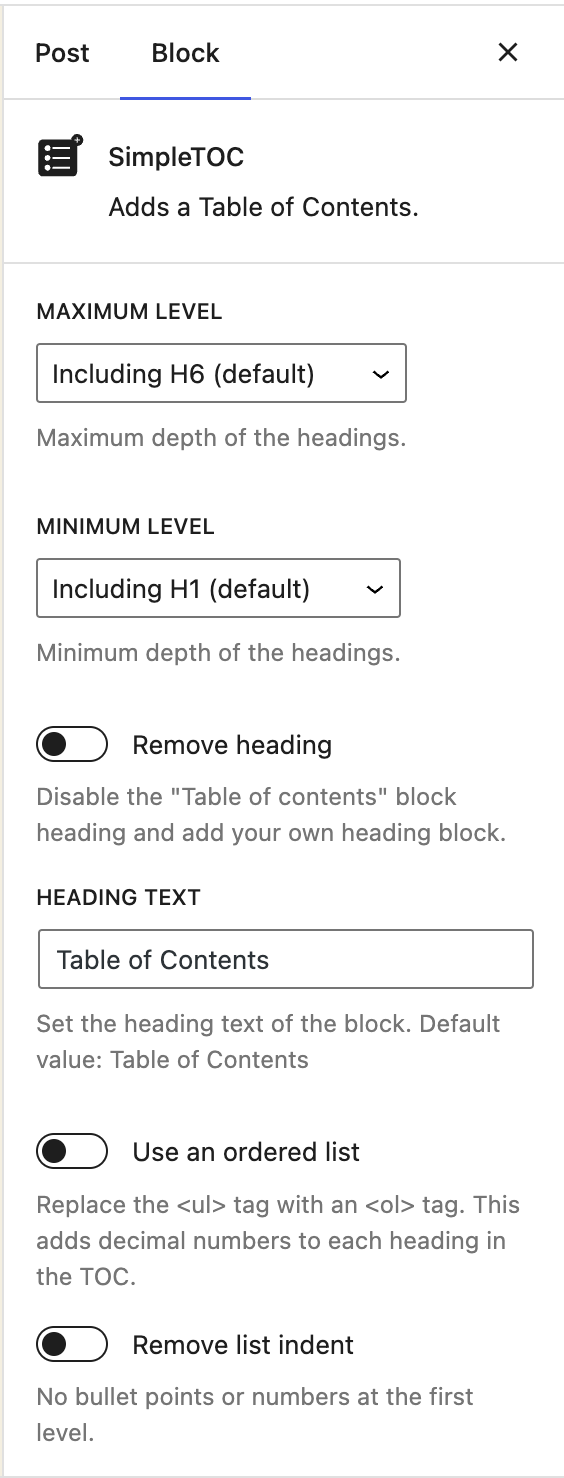
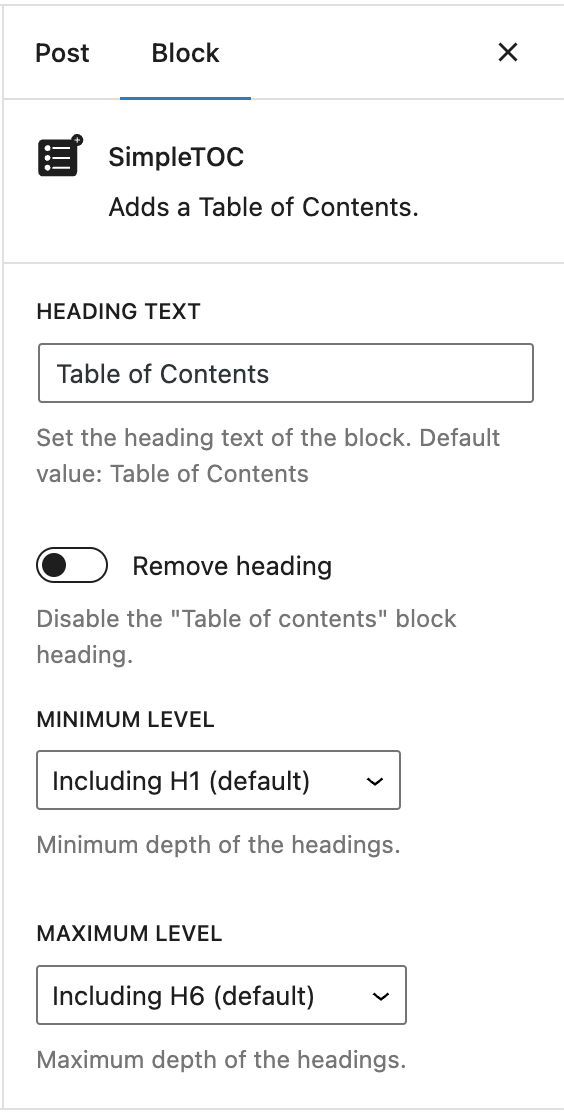
Added new indent buttons

diff --git a/build/index.js b/build/index.js
@@ -1,1 +1,1 @@
-!function(){"use strict";var e={n:function(t){var l=t&&t.__esModule?function(){return t.default}:function(){return t};return e.d(l,{a:l}),l},d:function(t,l){for(var o in l)e.o(l,o)&&!e.o(t,o)&&Object.defineProperty(t,o,{enumerable:!0,get:l[o]})},o:function(e,t){return Object.prototype.hasOwnProperty.call(e,t)}},t=window.wp.element,l=window.wp.blocks,o=JSON.parse('{"$schema":"https://json.schemastore.org/block.json","apiVersion":2,"name":"simpletoc/toc","version":"5.0.32","title":"SimpleTOC","category":"layout","keywords":["TOC","Table of Contents","SimpleTOC","Inhaltsverzeichnis","Index"],"supports":{"align":["wide","full"]},"icon":"simpletocicon","description":"Adds a Table of Contents.","attributes":{"no_title":{"type":"boolean","default":false},"title_text":{"type":"string"},"use_ol":{"type":"boolean","default":false},"remove_indent":{"type":"boolean","default":false},"add_smooth":{"type":"boolean","default":false},"use_absolute_urls":{"type":"boolean","default":false},"max_level":{"type":"integer","default":6},"min_level":{"type":"integer","default":1},"autorefresh":{"type":"boolean","default":true},"updated":{"type":"integer"}},"textdomain":"simpletoc","editorScript":"file:index.js","editorStyle":"file:editor.css"}'),n=window.wp.i18n,a=window.wp.blockEditor,i=window.wp.serverSideRender,s=e.n(i),r=window.wp.primitives,c=(0,t.createElement)(r.SVG,{xmlns:"http://www.w3.org/2000/svg",viewBox:"0 0 24 24"},(0,t.createElement)(r.Path,{d:"M11.1 15.8H20v-1.5h-8.9v1.5zm0-8.6v1.5H20V7.2h-8.9zM6 13c-1.1 0-2 .9-2 2s.9 2 2 2 2-.9 2-2-.9-2-2-2zm0-7c-1.1 0-2 .9-2 2s.9 2 2 2 2-.9 2-2-.9-2-2-2z"})),m=(0,t.createElement)(r.SVG,{xmlns:"http://www.w3.org/2000/svg",viewBox:"0 0 24 24"},(0,t.createElement)(r.Path,{d:"M11.1 15.8H20v-1.5h-8.9v1.5zm0-8.6v1.5H20V7.2h-8.9zM5 6.7V10h1V5.3L3.8 6l.4 1 .8-.3zm-.4 5.7c-.3.1-.5.2-.7.3l.1 1.1c.2-.2.5-.4.8-.5.3-.1.6 0 .7.1.2.3 0 .8-.2 1.1-.5.8-.9 1.6-1.4 2.5h2.7v-1h-1c.3-.6.8-1.4.9-2.1.1-.3 0-.8-.2-1.1-.5-.6-1.3-.5-1.7-.4z"})),u=window.wp.components,d=window.wp.data,_=window.React;const p=(0,t.createElement)("svg",{fillRule:"evenodd",strokeLinejoin:"round",strokeMiterlimit:"2",viewBox:"0 0 500 500",xmlns:"http://www.w3.org/2000/svg"},(0,t.createElement)("path",{d:"m365.983 78.248c2.72-32.415 29.921-57.908 63.029-57.908 34.91 0 63.253 28.342 63.253 63.252s-28.343 63.252-63.253 63.252v269.582c0 25.232-20.485 45.718-45.718 45.718h-313.62c-25.233 0-45.719-20.486-45.719-45.718v-292.46c0-25.233 20.486-45.718 45.719-45.718zm-245.943 324.857c-16.883 0-30.511-13.719-30.511-30.714 0-16.79 13.628-30.714 30.511-30.714 16.679 0 30.511 13.924 30.511 30.714 0 16.995-13.832 30.714-30.511 30.714zm50.851-40.952h183.063v20.476h-183.063zm-50.851-61.428c-16.883 0-30.511-13.719-30.511-30.714 0-16.79 13.628-30.714 30.511-30.714 16.679 0 30.511 13.924 30.511 30.714 0 16.995-13.832 30.714-30.511 30.714zm50.851-40.952h183.063v20.476h-183.063zm-50.851-61.428c-16.883 0-30.511-13.719-30.511-30.714 0-16.791 13.628-30.714 30.511-30.714 16.679 0 30.511 13.923 30.511 30.714 0 16.995-13.832 30.714-30.511 30.714zm50.851-40.952h183.063v20.476h-183.063zm253.007-44.649v-24.188h-24.008v-10.108h24.008v-24.008h10.229v24.008h24.008v10.108h-24.008v24.188z"}));(0,l.registerBlockType)(o,{icon:p,edit:function(e){let{attributes:l,setAttributes:o}=e;const i=(0,a.useBlockProps)(),{isSavingPost:r}=(0,d.select)("core/editor"),[p,h]=(0,_.useState)(!1),v=(0,t.createElement)(a.BlockControls,{group:"block"},(0,t.createElement)(u.ToolbarButton,{icon:c,title:(0,n.__)("Unordered"),describedBy:(0,n.__)("Convert to unordered list"),isActive:!1===l.use_ol,onClick:()=>{o({use_ol:!1})}}),(0,t.createElement)(u.ToolbarButton,{icon:m,title:(0,n.__)("Ordered"),describedBy:(0,n.__)("Convert to ordered list"),isActive:!0===l.use_ol,onClick:()=>{o({use_ol:!0})}})),b=(0,t.createElement)(a.InspectorControls,null,(0,t.createElement)(u.Panel,null,(0,t.createElement)(u.PanelBody,null,!l.no_title&&(0,t.createElement)(u.PanelRow,null,(0,t.createElement)(u.TextControl,{label:(0,n.__)("Heading Text","simpletoc"),help:(0,n.__)("Set the heading text of the block.","simpletoc")+" "+(0,n.__)("Default value","simpletoc")+": "+(0,n.__)("Table of Contents","simpletoc"),value:l.title_text,onChange:e=>o({title_text:e||(0,n.__)("Table of Contents","simpletoc")})})),(0,t.createElement)(u.PanelRow,null,(0,t.createElement)(u.ToggleControl,{label:(0,n.__)("Remove heading","simpletoc"),help:(0,n.__)('Disable the "Table of contents" block heading.',"simpletoc"),checked:l.no_title,onChange:()=>o({no_title:!l.no_title})})),(0,t.createElement)(u.PanelRow,null,(0,t.createElement)(u.SelectControl,{label:(0,n.__)("Minimum level","simpletoc"),help:(0,n.__)("Minimum depth of the headings.","simpletoc"),value:l.min_level,options:[{label:(0,n.__)("Including","simpletoc")+" H6",value:"6"},{label:(0,n.__)("Including","simpletoc")+" H5",value:"5"},{label:(0,n.__)("Including","simpletoc")+" H4",value:"4"},{label:(0,n.__)("Including","simpletoc")+" H3",value:"3"},{label:(0,n.__)("Including","simpletoc")+" H2",value:"2"},{label:(0,n.__)("Including","simpletoc")+" H1 ("+(0,n.__)("default","simpletoc")+")",value:"1"}],onChange:e=>o({min_level:Number(e)})})),(0,t.createElement)(u.PanelRow,null,(0,t.createElement)(u.SelectControl,{label:(0,n.__)("Maximum level","simpletoc"),help:(0,n.__)("Maximum depth of the headings.","simpletoc"),value:l.max_level,options:[{label:(0,n.__)("Including","simpletoc")+" H6 ("+(0,n.__)("default","simpletoc")+")",value:"6"},{label:(0,n.__)("Including","simpletoc")+" H5",value:"5"},{label:(0,n.__)("Including","simpletoc")+" H4",value:"4"},{label:(0,n.__)("Including","simpletoc")+" H3",value:"3"},{label:(0,n.__)("Including","simpletoc")+" H2",value:"2"},{label:(0,n.__)("Including","simpletoc")+" H1",value:"1"}],onChange:e=>o({max_level:Number(e)})})),(0,t.createElement)(u.PanelRow,null,(0,t.createElement)(u.ToggleControl,{label:(0,n.__)("Remove list indent","simpletoc"),help:(0,n.__)("No bullet points or numbers at the first level.","simpletoc"),checked:l.remove_indent,onChange:()=>o({remove_indent:!l.remove_indent})})))),(0,t.createElement)(u.Panel,null,(0,t.createElement)(u.PanelBody,{title:(0,n.__)("Advanced Features","simpletoc"),icon:"settings",initialOpen:!1},(0,t.createElement)(u.PanelRow,null,(0,t.createElement)("div",{style:{marginBottom:"1em",border:"1px solid rgba(0, 0, 0, 0.05)",padding:"0.5em",backgroundColor:"#f7f7f7"}},(0,t.createElement)("p",null,(0,t.createElement)("strong",null,(0,n.__)("Think about making a donation if you use any of these features.","simpletoc"))),(0,t.createElement)(u.ExternalLink,{href:"https://marc.tv/out/donate"},(0,n.__)("Donate here!","simpletoc")))),(0,t.createElement)(u.PanelRow,null,(0,t.createElement)(u.ToggleControl,{label:(0,n.__)("Smooth scrolling support","simpletoc"),help:(0,n.__)('Add the css class "smooth-scroll" to the links. This enables smooth scrolling in some themes like GeneratePress.',"simpletoc"),checked:l.add_smooth,onChange:()=>o({add_smooth:!l.add_smooth})})),(0,t.createElement)(u.PanelRow,null,(0,t.createElement)(u.ToggleControl,{label:(0,n.__)("Use absolute urls","simpletoc"),help:(0,n.__)("Adds the permalink url to the fragment.","simpletoc"),checked:l.use_absolute_urls,onChange:()=>o({use_absolute_urls:!l.use_absolute_urls})})),(0,t.createElement)(u.PanelRow,null,(0,t.createElement)(u.ToggleControl,{label:(0,n.__)("Automatically refresh TOC","simpletoc"),help:(0,n.__)("Disable this to remove redundant changed content warning in editor.","simpletoc"),checked:l.autorefresh,onChange:()=>o({autorefresh:!l.autorefresh})})))));return(0,d.subscribe)((()=>{r()?h(!0):h(!1)})),(0,_.useEffect)((()=>{p&&!0===l.autorefresh&&o({updated:(new Date).getTime()})}),[p]),(0,t.createElement)("div",i,v,b,(0,t.createElement)(s(),{block:"simpletoc/toc",attributes:l}))},save:function(){return null}})}();
+!function(){"use strict";var e={n:function(t){var l=t&&t.__esModule?function(){return t.default}:function(){return t};return e.d(l,{a:l}),l},d:function(t,l){for(var n in l)e.o(l,n)&&!e.o(t,n)&&Object.defineProperty(t,n,{enumerable:!0,get:l[n]})},o:function(e,t){return Object.prototype.hasOwnProperty.call(e,t)}},t=window.wp.element,l=window.wp.blocks,n=JSON.parse('{"$schema":"https://json.schemastore.org/block.json","apiVersion":2,"name":"simpletoc/toc","version":"5.0.32","title":"SimpleTOC","category":"layout","keywords":["TOC","Table of Contents","SimpleTOC","Inhaltsverzeichnis","Index"],"supports":{"align":["wide","full"]},"icon":"simpletocicon","description":"Adds a Table of Contents.","attributes":{"no_title":{"type":"boolean","default":false},"title_text":{"type":"string"},"use_ol":{"type":"boolean","default":false},"remove_indent":{"type":"boolean","default":false},"add_smooth":{"type":"boolean","default":false},"use_absolute_urls":{"type":"boolean","default":false},"max_level":{"type":"integer","default":6},"min_level":{"type":"integer","default":1},"autorefresh":{"type":"boolean","default":true},"updated":{"type":"integer"}},"textdomain":"simpletoc","editorScript":"file:index.js","editorStyle":"file:editor.css"}'),o=window.wp.i18n,a=window.wp.blockEditor,i=window.wp.serverSideRender,s=e.n(i),r=window.wp.primitives,c=(0,t.createElement)(r.SVG,{xmlns:"http://www.w3.org/2000/svg",viewBox:"0 0 24 24"},(0,t.createElement)(r.Path,{d:"M11.1 15.8H20v-1.5h-8.9v1.5zm0-8.6v1.5H20V7.2h-8.9zM6 13c-1.1 0-2 .9-2 2s.9 2 2 2 2-.9 2-2-.9-2-2-2zm0-7c-1.1 0-2 .9-2 2s.9 2 2 2 2-.9 2-2-.9-2-2-2z"})),m=(0,t.createElement)(r.SVG,{xmlns:"http://www.w3.org/2000/svg",viewBox:"0 0 24 24"},(0,t.createElement)(r.Path,{d:"M11.1 15.8H20v-1.5h-8.9v1.5zm0-8.6v1.5H20V7.2h-8.9zM5 6.7V10h1V5.3L3.8 6l.4 1 .8-.3zm-.4 5.7c-.3.1-.5.2-.7.3l.1 1.1c.2-.2.5-.4.8-.5.3-.1.6 0 .7.1.2.3 0 .8-.2 1.1-.5.8-.9 1.6-1.4 2.5h2.7v-1h-1c.3-.6.8-1.4.9-2.1.1-.3 0-.8-.2-1.1-.5-.6-1.3-.5-1.7-.4z"})),u=(0,t.createElement)(r.SVG,{xmlns:"http://www.w3.org/2000/svg",viewBox:"0 0 24 24"},(0,t.createElement)(r.Path,{d:"M4 7.2v1.5h16V7.2H4zm8 8.6h8v-1.5h-8v1.5zm-4-4.6l-4 4 4 4 1-1-3-3 3-3-1-1z"})),d=(0,t.createElement)(r.SVG,{xmlns:"http://www.w3.org/2000/svg",viewBox:"0 0 24 24"},(0,t.createElement)(r.Path,{d:"M4 7.2v1.5h16V7.2H4zm8 8.6h8v-1.5h-8v1.5zm-8-3.5l3 3-3 3 1 1 4-4-4-4-1 1z"})),_=window.wp.components,p=window.wp.data,h=window.React;const v=(0,t.createElement)("svg",{fillRule:"evenodd",strokeLinejoin:"round",strokeMiterlimit:"2",viewBox:"0 0 500 500",xmlns:"http://www.w3.org/2000/svg"},(0,t.createElement)("path",{d:"m365.983 78.248c2.72-32.415 29.921-57.908 63.029-57.908 34.91 0 63.253 28.342 63.253 63.252s-28.343 63.252-63.253 63.252v269.582c0 25.232-20.485 45.718-45.718 45.718h-313.62c-25.233 0-45.719-20.486-45.719-45.718v-292.46c0-25.233 20.486-45.718 45.719-45.718zm-245.943 324.857c-16.883 0-30.511-13.719-30.511-30.714 0-16.79 13.628-30.714 30.511-30.714 16.679 0 30.511 13.924 30.511 30.714 0 16.995-13.832 30.714-30.511 30.714zm50.851-40.952h183.063v20.476h-183.063zm-50.851-61.428c-16.883 0-30.511-13.719-30.511-30.714 0-16.79 13.628-30.714 30.511-30.714 16.679 0 30.511 13.924 30.511 30.714 0 16.995-13.832 30.714-30.511 30.714zm50.851-40.952h183.063v20.476h-183.063zm-50.851-61.428c-16.883 0-30.511-13.719-30.511-30.714 0-16.791 13.628-30.714 30.511-30.714 16.679 0 30.511 13.923 30.511 30.714 0 16.995-13.832 30.714-30.511 30.714zm50.851-40.952h183.063v20.476h-183.063zm253.007-44.649v-24.188h-24.008v-10.108h24.008v-24.008h10.229v24.008h24.008v10.108h-24.008v24.188z"}));(0,l.registerBlockType)(n,{icon:v,edit:function(e){let{attributes:l,setAttributes:n}=e;const i=(0,a.useBlockProps)(),{isSavingPost:r}=(0,p.select)("core/editor"),[v,b]=(0,h.useState)(!1),g=(0,t.createElement)(a.BlockControls,{group:"block"},(0,t.createElement)(_.ToolbarButton,{icon:c,title:(0,o.__)("Unordered"),describedBy:(0,o.__)("Convert to unordered list"),isActive:!1===l.use_ol,onClick:()=>{n({use_ol:!1})}}),(0,t.createElement)(_.ToolbarButton,{icon:m,title:(0,o.__)("Ordered"),describedBy:(0,o.__)("Convert to ordered list"),isActive:!0===l.use_ol,onClick:()=>{n({use_ol:!0})}}),(0,t.createElement)(_.ToolbarButton,{icon:u,title:(0,o.__)("Indent"),describedBy:(0,o.__)("Indent list"),isActive:!0===l.remove_indent,onClick:()=>{n({remove_indent:!0})}}),(0,t.createElement)(_.ToolbarButton,{icon:d,title:(0,o.__)("Outdent"),describedBy:(0,o.__)("Outdent list"),isActive:!1===l.remove_indent,onClick:()=>{n({remove_indent:!1})}})),w=(0,t.createElement)(a.InspectorControls,null,(0,t.createElement)(_.Panel,null,(0,t.createElement)(_.PanelBody,null,!l.no_title&&(0,t.createElement)(_.PanelRow,null,(0,t.createElement)(_.TextControl,{label:(0,o.__)("Heading Text","simpletoc"),help:(0,o.__)("Set the heading text of the block.","simpletoc")+" "+(0,o.__)("Default value","simpletoc")+": "+(0,o.__)("Table of Contents","simpletoc"),value:l.title_text,onChange:e=>n({title_text:e||(0,o.__)("Table of Contents","simpletoc")})})),(0,t.createElement)(_.PanelRow,null,(0,t.createElement)(_.ToggleControl,{label:(0,o.__)("Remove heading","simpletoc"),help:(0,o.__)('Disable the "Table of contents" block heading.',"simpletoc"),checked:l.no_title,onChange:()=>n({no_title:!l.no_title})})),(0,t.createElement)(_.PanelRow,null,(0,t.createElement)(_.SelectControl,{label:(0,o.__)("Minimum level","simpletoc"),help:(0,o.__)("Minimum depth of the headings.","simpletoc"),value:l.min_level,options:[{label:(0,o.__)("Including","simpletoc")+" H6",value:"6"},{label:(0,o.__)("Including","simpletoc")+" H5",value:"5"},{label:(0,o.__)("Including","simpletoc")+" H4",value:"4"},{label:(0,o.__)("Including","simpletoc")+" H3",value:"3"},{label:(0,o.__)("Including","simpletoc")+" H2",value:"2"},{label:(0,o.__)("Including","simpletoc")+" H1 ("+(0,o.__)("default","simpletoc")+")",value:"1"}],onChange:e=>n({min_level:Number(e)})})),(0,t.createElement)(_.PanelRow,null,(0,t.createElement)(_.SelectControl,{label:(0,o.__)("Maximum level","simpletoc"),help:(0,o.__)("Maximum depth of the headings.","simpletoc"),value:l.max_level,options:[{label:(0,o.__)("Including","simpletoc")+" H6 ("+(0,o.__)("default","simpletoc")+")",value:"6"},{label:(0,o.__)("Including","simpletoc")+" H5",value:"5"},{label:(0,o.__)("Including","simpletoc")+" H4",value:"4"},{label:(0,o.__)("Including","simpletoc")+" H3",value:"3"},{label:(0,o.__)("Including","simpletoc")+" H2",value:"2"},{label:(0,o.__)("Including","simpletoc")+" H1",value:"1"}],onChange:e=>n({max_level:Number(e)})})))),(0,t.createElement)(_.Panel,null,(0,t.createElement)(_.PanelBody,{title:(0,o.__)("Advanced Features","simpletoc"),icon:"settings",initialOpen:!1},(0,t.createElement)(_.PanelRow,null,(0,t.createElement)("div",{style:{marginBottom:"1em",border:"1px solid rgba(0, 0, 0, 0.05)",padding:"0.5em",backgroundColor:"#f7f7f7"}},(0,t.createElement)("p",null,(0,t.createElement)("strong",null,(0,o.__)("Think about making a donation if you use any of these features.","simpletoc"))),(0,t.createElement)(_.ExternalLink,{href:"https://marc.tv/out/donate"},(0,o.__)("Donate here!","simpletoc")))),(0,t.createElement)(_.PanelRow,null,(0,t.createElement)(_.ToggleControl,{label:(0,o.__)("Smooth scrolling support","simpletoc"),help:(0,o.__)('Add the css class "smooth-scroll" to the links. This enables smooth scrolling in some themes like GeneratePress.',"simpletoc"),checked:l.add_smooth,onChange:()=>n({add_smooth:!l.add_smooth})})),(0,t.createElement)(_.PanelRow,null,(0,t.createElement)(_.ToggleControl,{label:(0,o.__)("Use absolute urls","simpletoc"),help:(0,o.__)("Adds the permalink url to the fragment.","simpletoc"),checked:l.use_absolute_urls,onChange:()=>n({use_absolute_urls:!l.use_absolute_urls})})),(0,t.createElement)(_.PanelRow,null,(0,t.createElement)(_.ToggleControl,{label:(0,o.__)("Automatically refresh TOC","simpletoc"),help:(0,o.__)("Disable this to remove redundant changed content warning in editor.","simpletoc"),checked:l.autorefresh,onChange:()=>n({autorefresh:!l.autorefresh})})))));return(0,p.subscribe)((()=>{r()?b(!0):b(!1)})),(0,h.useEffect)((()=>{v&&!0===l.autorefresh&&n({updated:(new Date).getTime()})}),[v]),(0,t.createElement)("div",i,g,w,(0,t.createElement)(s(),{block:"simpletoc/toc",attributes:l}))},save:function(){return null}})}();

diff --git a/src/edit.js b/src/edit.js
@@ -5,7 +5,12 @@ import {
 	useBlockProps,
 } from '@wordpress/block-editor';
 import ServerSideRender from '@wordpress/server-side-render';
-import { formatListBullets, formatListNumbered } from '@wordpress/icons';
+import {
+	formatListBullets,
+	formatOutdent,
+	formatIndent,
+	formatListNumbered,
+} from '@wordpress/icons';
 import {
 	SelectControl,
 	ToolbarButton,
@@ -54,6 +59,24 @@ export default function Edit( { attributes, setAttributes } ) {
 				isActive={ attributes.use_ol === true }
 				onClick={ () => {
 					setAttributes( { use_ol: true } );
+				} }
+			/>
+			<ToolbarButton
+				icon={ formatOutdent }
+				title={ __( 'Indent' ) }
+				describedBy={ __( 'Indent list' ) }
+				isActive={ attributes.remove_indent === true }
+				onClick={ () => {
+					setAttributes( { remove_indent: true } );
+				} }
+			/>
+			<ToolbarButton
+				icon={ formatIndent }
+				title={ __( 'Outdent' ) }
+				describedBy={ __( 'Outdent list' ) }
+				isActive={ attributes.remove_indent === false }
+				onClick={ () => {
+					setAttributes( { remove_indent: false } );
 				} }
 			/>
 		</BlockControls>
@@ -202,21 +225,6 @@ export default function Edit( { attributes, setAttributes } ) {
 							onChange={ ( level ) =>
 								setAttributes( {
 									max_level: Number( level ),
-								} )
-							}
-						/>
-					</PanelRow>
-					<PanelRow>
-						<ToggleControl
-							label={ __( 'Remove list indent', 'simpletoc' ) }
-							help={ __(
-								'No bullet points or numbers at the first level.',
-								'simpletoc'
-							) }
-							checked={ attributes.remove_indent }
-							onChange={ () =>
-								setAttributes( {
-									remove_indent: ! attributes.remove_indent,
 								} )
 							}
 						/>

diff --git a/build/index.asset.php b/build/index.asset.php
@@ -1,1 +1,1 @@
-<?php return array('dependencies' => array('react', 'wp-block-editor', 'wp-blocks', 'wp-components', 'wp-data', 'wp-element', 'wp-i18n', 'wp-primitives', 'wp-server-side-render'), 'version' => '22a51d1ef4748e4b210c');
+<?php return array('dependencies' => array('react', 'wp-block-editor', 'wp-blocks', 'wp-components', 'wp-data', 'wp-element', 'wp-i18n', 'wp-primitives', 'wp-server-side-render'), 'version' => '6190152c5b6d04705838');
